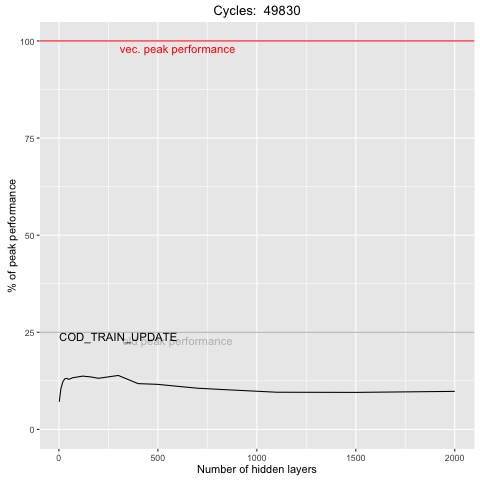
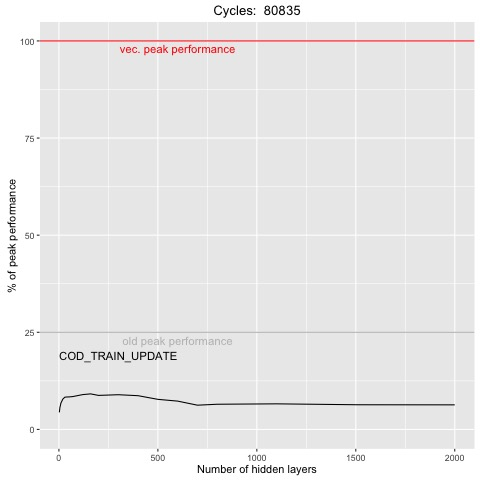
COD plot

Changed region(s): [[0.125, 0.7812, 0.9375, 0.8438], [0.125, 0.6875, 0.375, 0.75], [0.5312, 0.0, 0.625, 0.0312]]

diff --git a/rbm_final_Utrans/scalar/merged1/rbm.h b/rbm_final_Utrans/scalar/merged1/rbm.h
@@ -262,69 +262,72 @@ double sigmoid(double val)
  */
 void h_update(double * h, int y0, double * x0){
     
-    double sum; 
-    __m128d s1, s2, s3, s4;
-    __m128d w1, w2, w3, w4;
-    __m128d w5, w6, w7, w8;
-    __m128d x1, x2, x3, x4;
-    __m128d x5, x6, x7, x8;
+    double sum, s1, s2, s3, s4;
+    __m128d w5, w6, w7, w8, w13, w14, w15, w16;
+    __m128d x5, x6, x7, x8, x13, x14, x15, x16;
     
     double sum2;
     
     for (int i = 0; i < n ; i++)
     {
-    	__m128d s1 = {0};
-        __m128d s2 = {0};
-        __m128d s3 = {0};
-    	__m128d s4 = {0};
         __m128d s5 = {0};
         __m128d s6 = {0};
         __m128d s7 = {0};
         __m128d s8 = {0};
         int iD = i*D;
-        for (int j = 0; j < D; j+=8)
+        for (int j = 0; j < D; j+=16)
         {
             
-            w1 = _mm_load_sd(W + iD + j);
-            w2 = _mm_load_sd(W + iD + j + 1);
-            w3 = _mm_load_sd(W + iD + j + 2);
-            w4 = _mm_load_sd(W + iD + j + 3);
             w5 = _mm_load_sd(W + iD + j + 4);
             w6 = _mm_load_sd(W + iD + j + 5);
             w7 = _mm_load_sd(W + iD + j + 6);
             w8 = _mm_load_sd(W + iD + j + 7);
+            w13 = _mm_load_sd(W + iD + j + 12);
+            w14 = _mm_load_sd(W + iD + j + 13);
+            w15 = _mm_load_sd(W + iD + j + 14);
+            w16 = _mm_load_sd(W + iD + j + 15);
             
-            x1 = _mm_load_sd(x0 + j);
-            x2 = _mm_load_sd(x0 + j + 1);
-            x3 = _mm_load_sd(x0 + j + 2);
-            x4 = _mm_load_sd(x0 + j + 3);
             x5 = _mm_load_sd(x0 + j + 4);
             x6 = _mm_load_sd(x0 + j + 5);
             x7 = _mm_load_sd(x0 + j + 6);
             x8 = _mm_load_sd(x0 + j + 7);
+            x13 = _mm_load_sd(x0 + j + 12);
+            x14 = _mm_load_sd(x0 + j + 13);
+            x15 = _mm_load_sd(x0 + j + 14);
+            x16 = _mm_load_sd(x0 + j + 15);
             
             
-            s1 = _mm_fmadd_sd(w1, x1, s1);
-            s2 = _mm_fmadd_sd(w2, x2, s2);
-            s3 = _mm_fmadd_sd(w3, x3, s3);
-            s4 = _mm_fmadd_sd(w4, x4, s4);
+            s1 = s1 + W[iD + j] * x0[j];
+            s2 = s2 + W[iD + j+1] * x0[j+1];
+            s3 = s3 + W[iD + j+2] * x0[j+2];
+            s4 = s4 + W[iD + j+3] * x0[j+3];
+            
+            s1 = s1 + W[iD + j+8] * x0[j+8];
+            s2 = s2 + W[iD + j+9] * x0[j+9];
+            s3 = s3 + W[iD + j+10] * x0[j+10];
+            s4 = s4 + W[iD + j+11] * x0[j+11];
+            
             s5 = _mm_fmadd_sd(w5, x5, s5);
             s6 = _mm_fmadd_sd(w6, x6, s6);
             s7 = _mm_fmadd_sd(w7, x7, s7);
-            s8 = _mm_fmadd_sd(w8, x7, s8);
+            s8 = _mm_fmadd_sd(w8, x8, s8);
+            s5 = _mm_fmadd_sd(w13, x13, s5);
+            s6 = _mm_fmadd_sd(w14, x14, s6);
+            s7 = _mm_fmadd_sd(w15, x15, s7);
+            s8 = _mm_fmadd_sd(w16, x16, s8);
             
         }
-        s1 = _mm_add_sd(s1, s2);
-        s2 = _mm_add_sd(s3, s4);
-        s1 = _mm_add_sd(s1, s3);
         s5 = _mm_add_sd(s5, s6);
         s7 = _mm_add_sd(s7, s8);
         s5 = _mm_add_sd(s5, s7);
-        s1 = _mm_add_sd(s1, s5);
-        _mm_store_sd(&sum2,s1);
-        sum = c[i] + sum2;
+        _mm_store_sd(&sum2,s5);
+        sum = c[i] + s1+ s2+ s3+ s4 + sum2;
         
-        sum = sum + U[y0 * n + i];
+        //Can be optimized
+        for (int j = 0; j < K; j++)
+        {
+            if (j == y0) sum = sum + U[j * n + i];
+        }
         
         h[i] = sigmoid(sum);
     }
